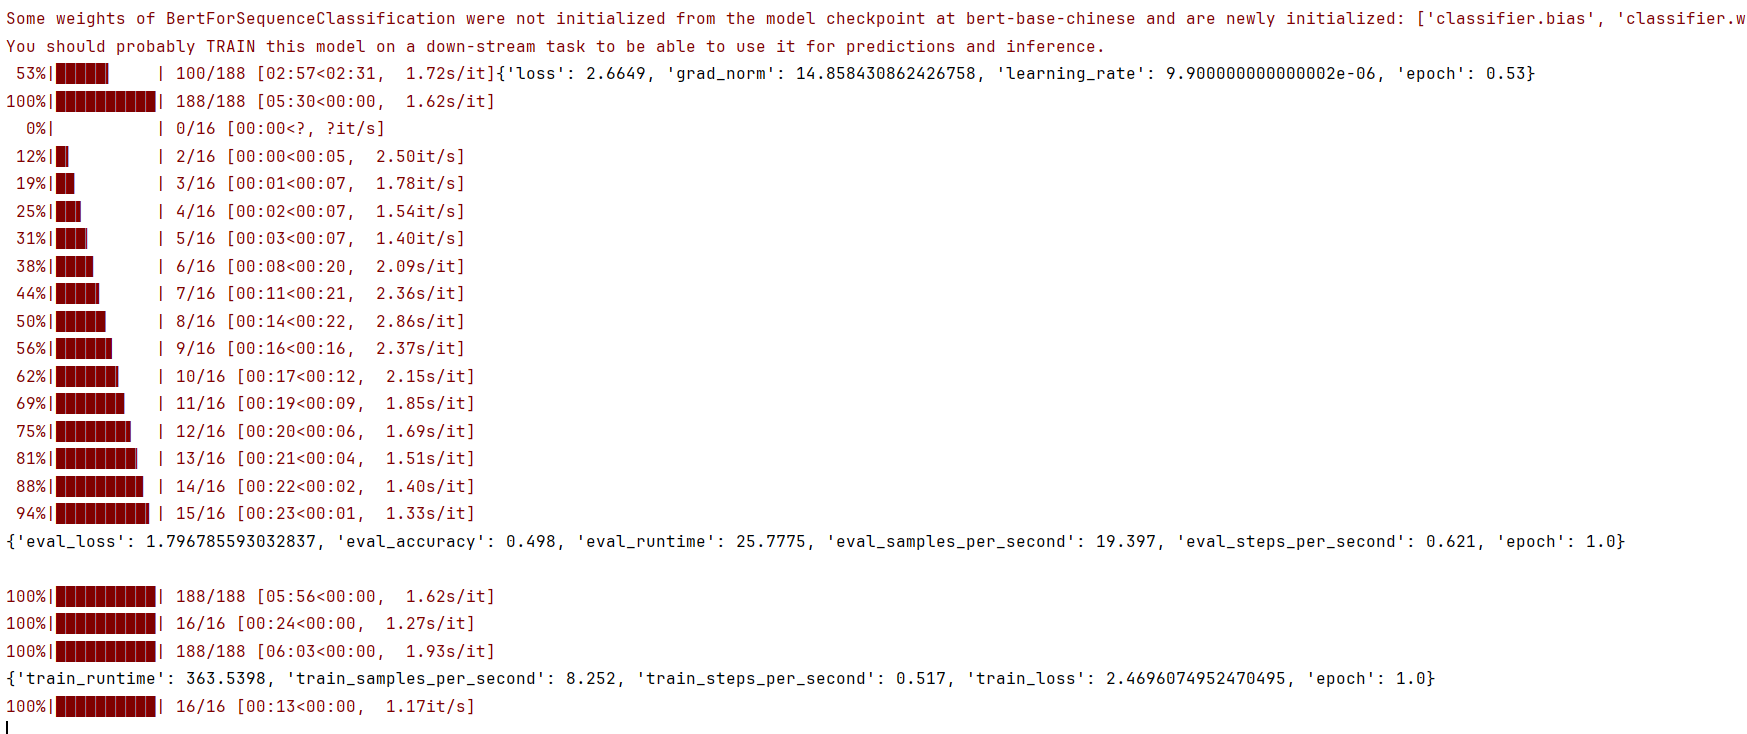
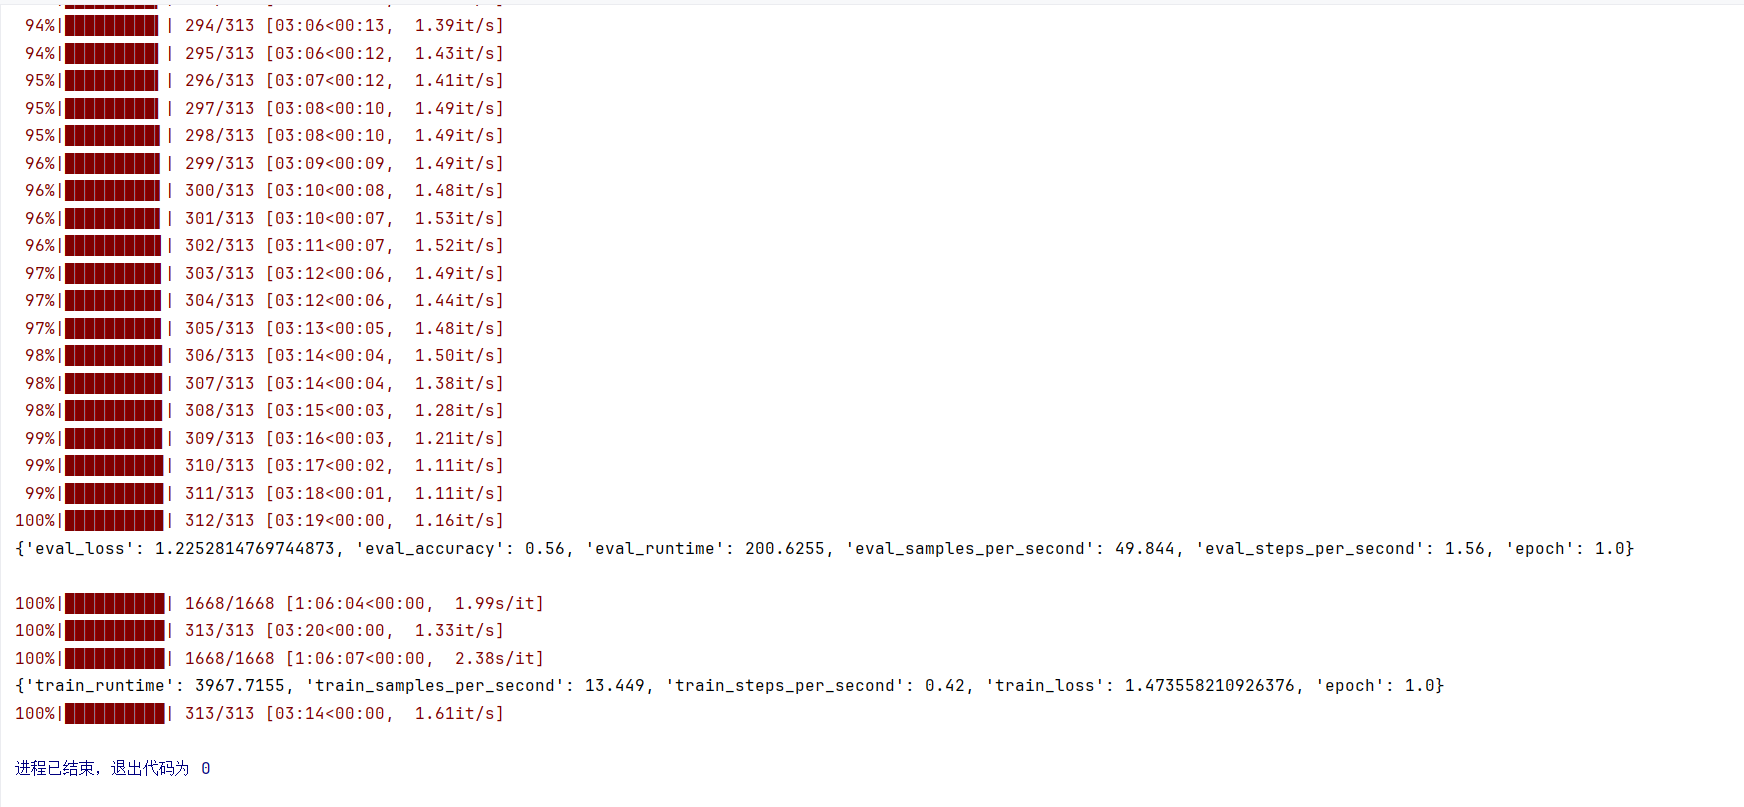
feat: week04作业1修改

Changed region(s): [[0.0, 0.0, 0.9289, 0.9891], [0.6502, 0.8992, 0.836, 0.9292], [0.9289, 0.0, 1.0, 0.03]]

diff --git a/徐曌/week04/作业1/Bert文本分类.py b/徐曌/week04/作业1/Bert文本分类.py
@@ -19,9 +19,9 @@ print(raw_ds)
 # train: 3000 条
 # val:   500 条
 # test:  500 条
-train_ds = train_ds.shuffle(seed=42).select(range(3000))
-val_ds   = val_ds.shuffle(seed=42).select(range(500))
-test_ds  = test_ds.shuffle(seed=42).select(range(500))
+# train_ds = train_ds.shuffle(seed=42).select(range(3000))
+# val_ds = val_ds.shuffle(seed=42).select(range(500))
+# test_ds  = test_ds.shuffle(seed=42).select(range(500))
 
 
 
@@ -93,7 +93,7 @@ def compute_metrics(eval_pred):
 training_args = TrainingArguments(
     output_dir='./results',              # 训练输出目录，用于保存模型和状态
     num_train_epochs=1,                  # 训练的总轮数
-    per_device_train_batch_size=16,      # 训练时每个设备（GPU/CPU）的批次大小
+    per_device_train_batch_size=32,      # 训练时每个设备（GPU/CPU）的批次大小
     per_device_eval_batch_size=32,       # 评估时每个设备的批次大小
     warmup_steps=500,                    # 学习率预热的步数，有助于稳定训练， step 定义为 一次 正向传播 + 参数更新
     weight_decay=0.01,                   # 权重衰减，用于防止过拟合
